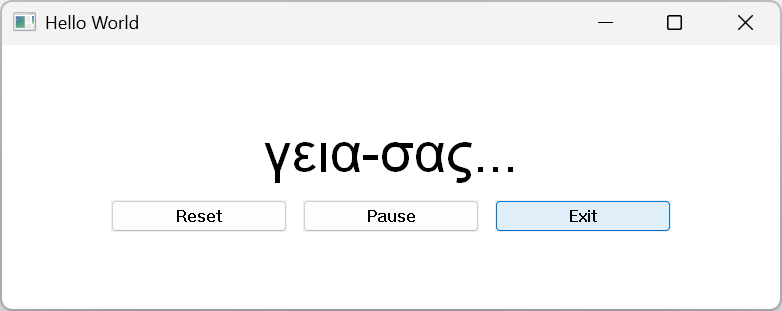
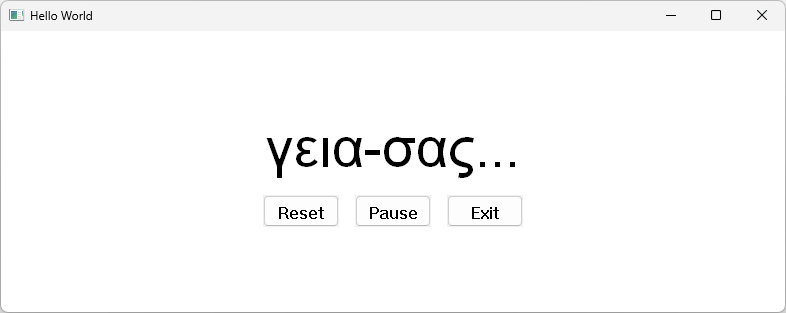
Improve documentation

diff --git a/README.md b/README.md
@@ -16,6 +16,8 @@
 ![Lua](https://img.shields.io/badge/Lua-5.5.1-2C2D72?logo=lua&logoColor=white)
 [![License: MIT](https://img.shields.io/badge/License-MIT-green)](./LICENSE)
 
+![lua55ce making hello.exe](./doc/readme-make-hello.gif)
+
 # 🚀 Quick start
 
 Download and extract the [latest binary release](https://github.com/pascalcombier/comexe/releases/latest), rename `lua55ce-x86_64.exe` to `lua55ce.exe` for convenience:
@@ -80,6 +82,10 @@ The option `--nostdlib` strips all the Lua modules from the executable.
 - [x] [Integrated Package Manager](./doc/comexe-reference-third-party-packages.md)
 - [x] [Improved UTF-8 support on Windows](./doc/comexe-page-utf8-on-windows.md)
 - [x] [MIT license](./LICENSE)
+
+Windows GUI from Lua. Requires the WebView2 runtime.
+
+![A WebView2 window built with ComEXE](./doc/test-webview2-screenshot.png)
 
 # 📘 Guides & Notes
 
